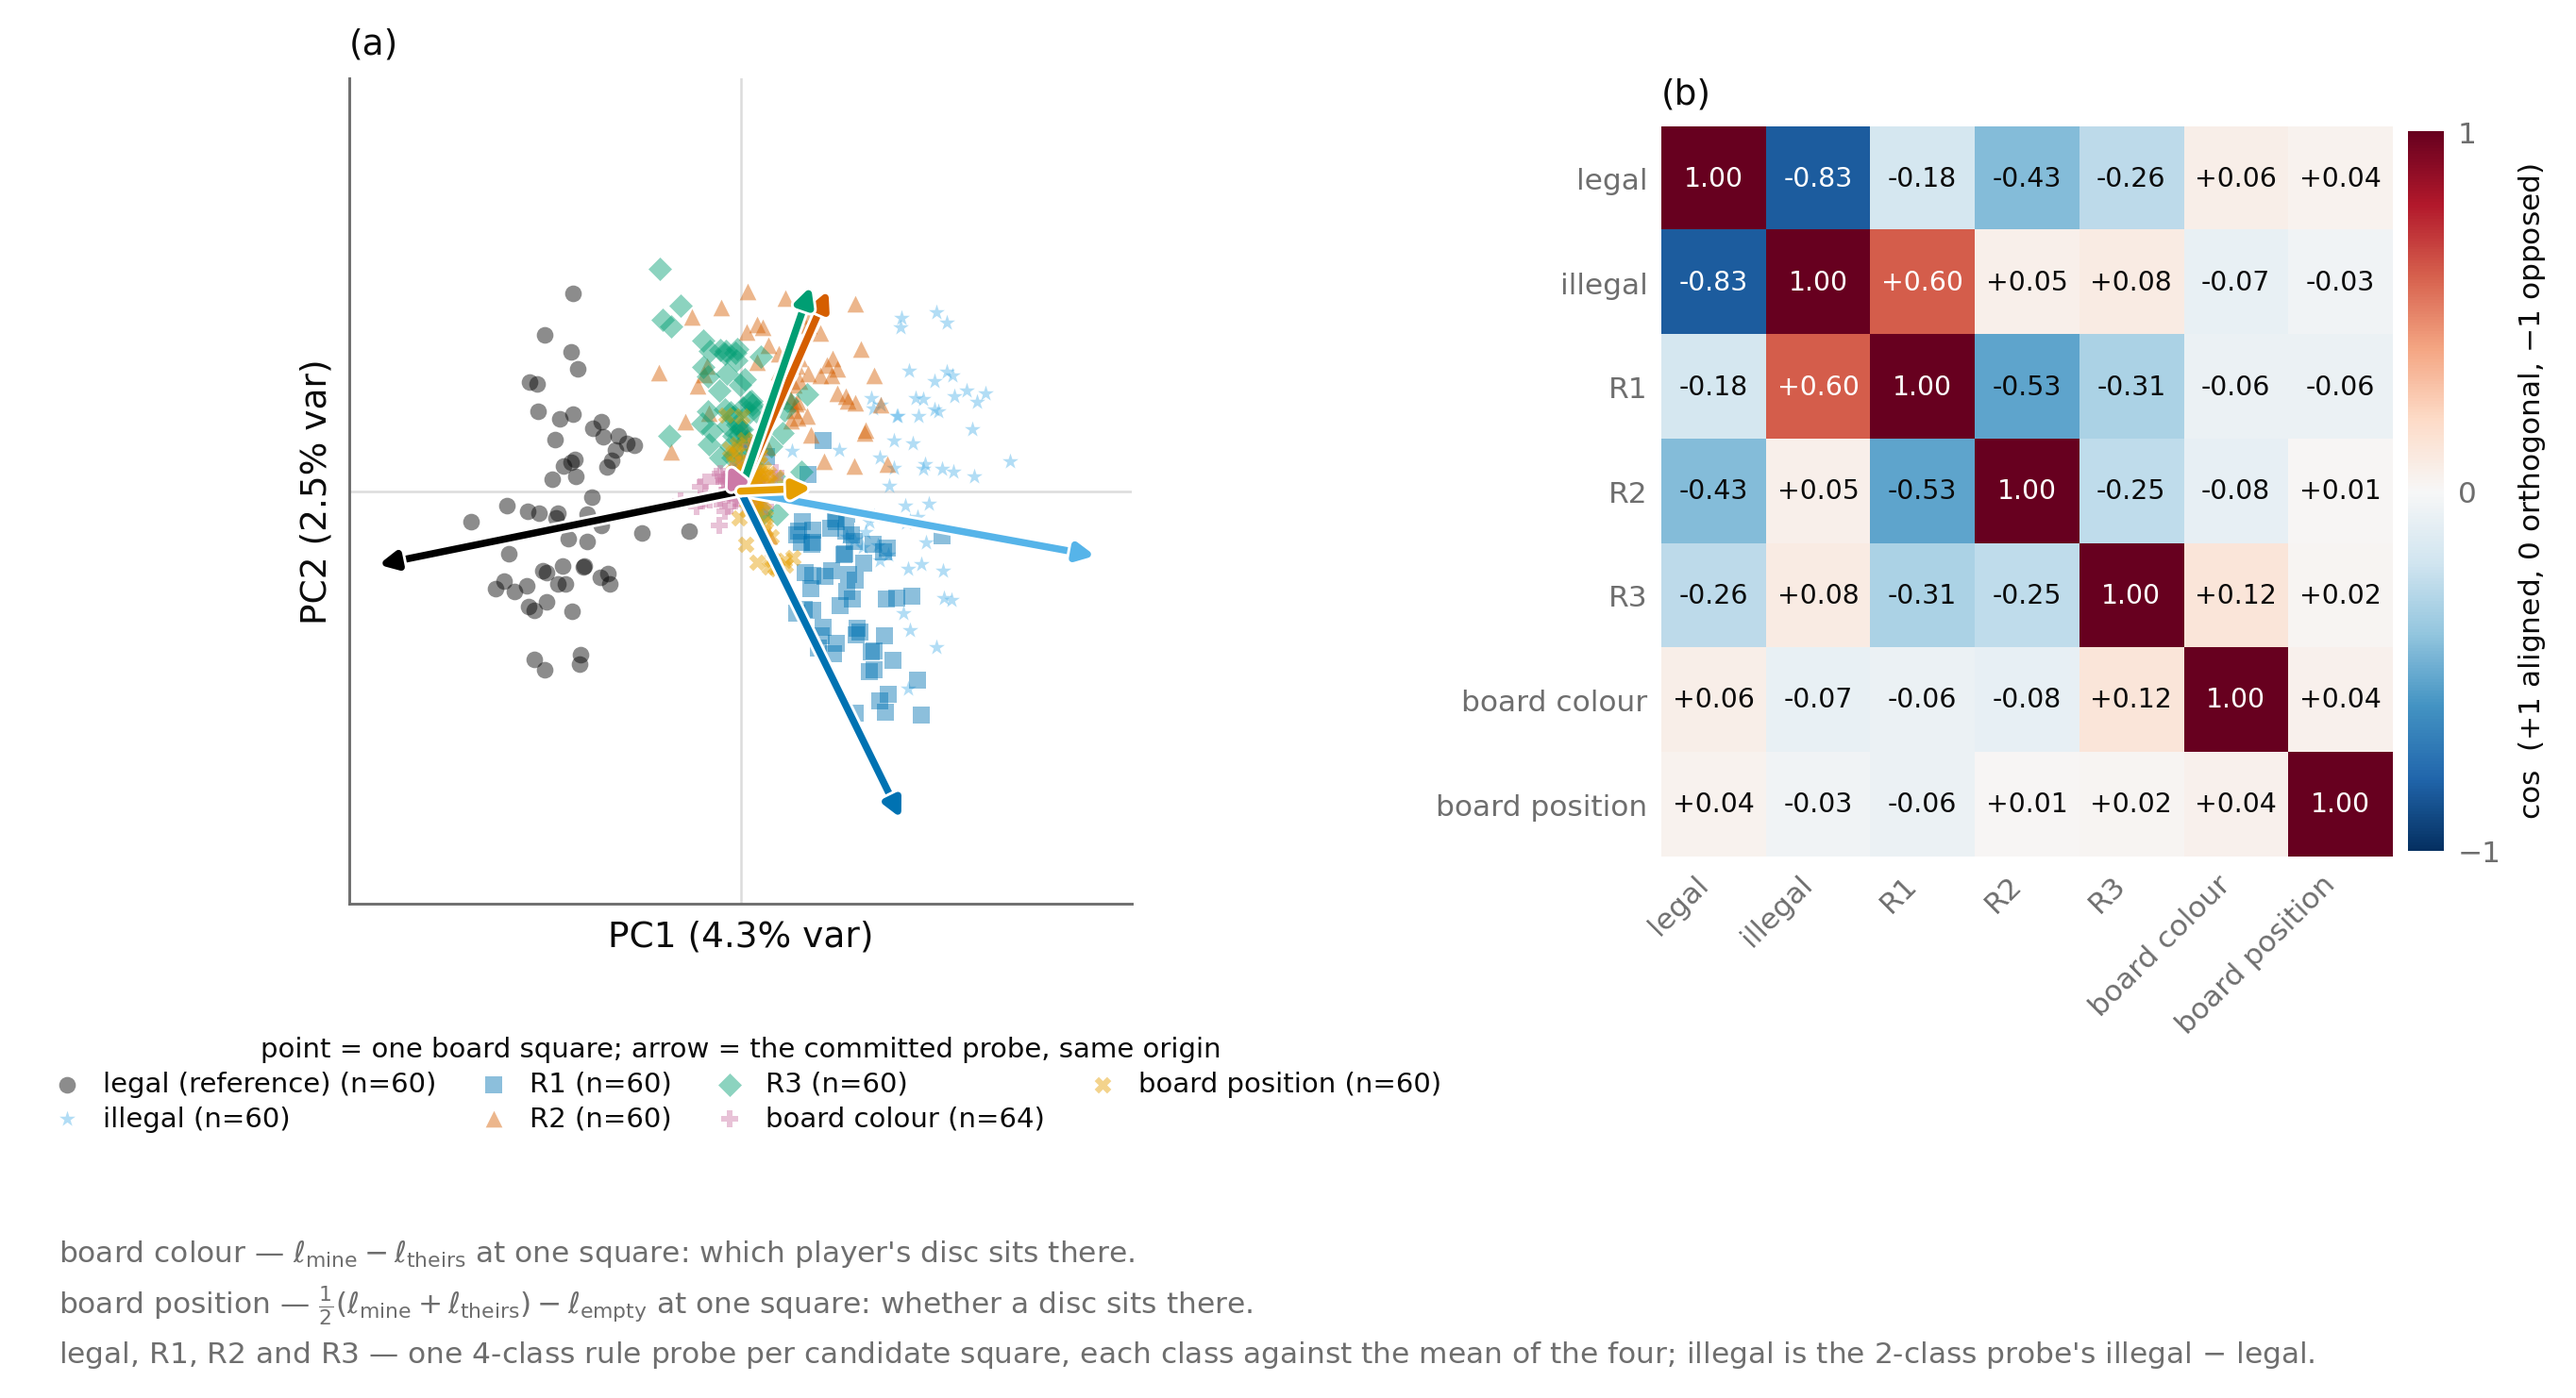
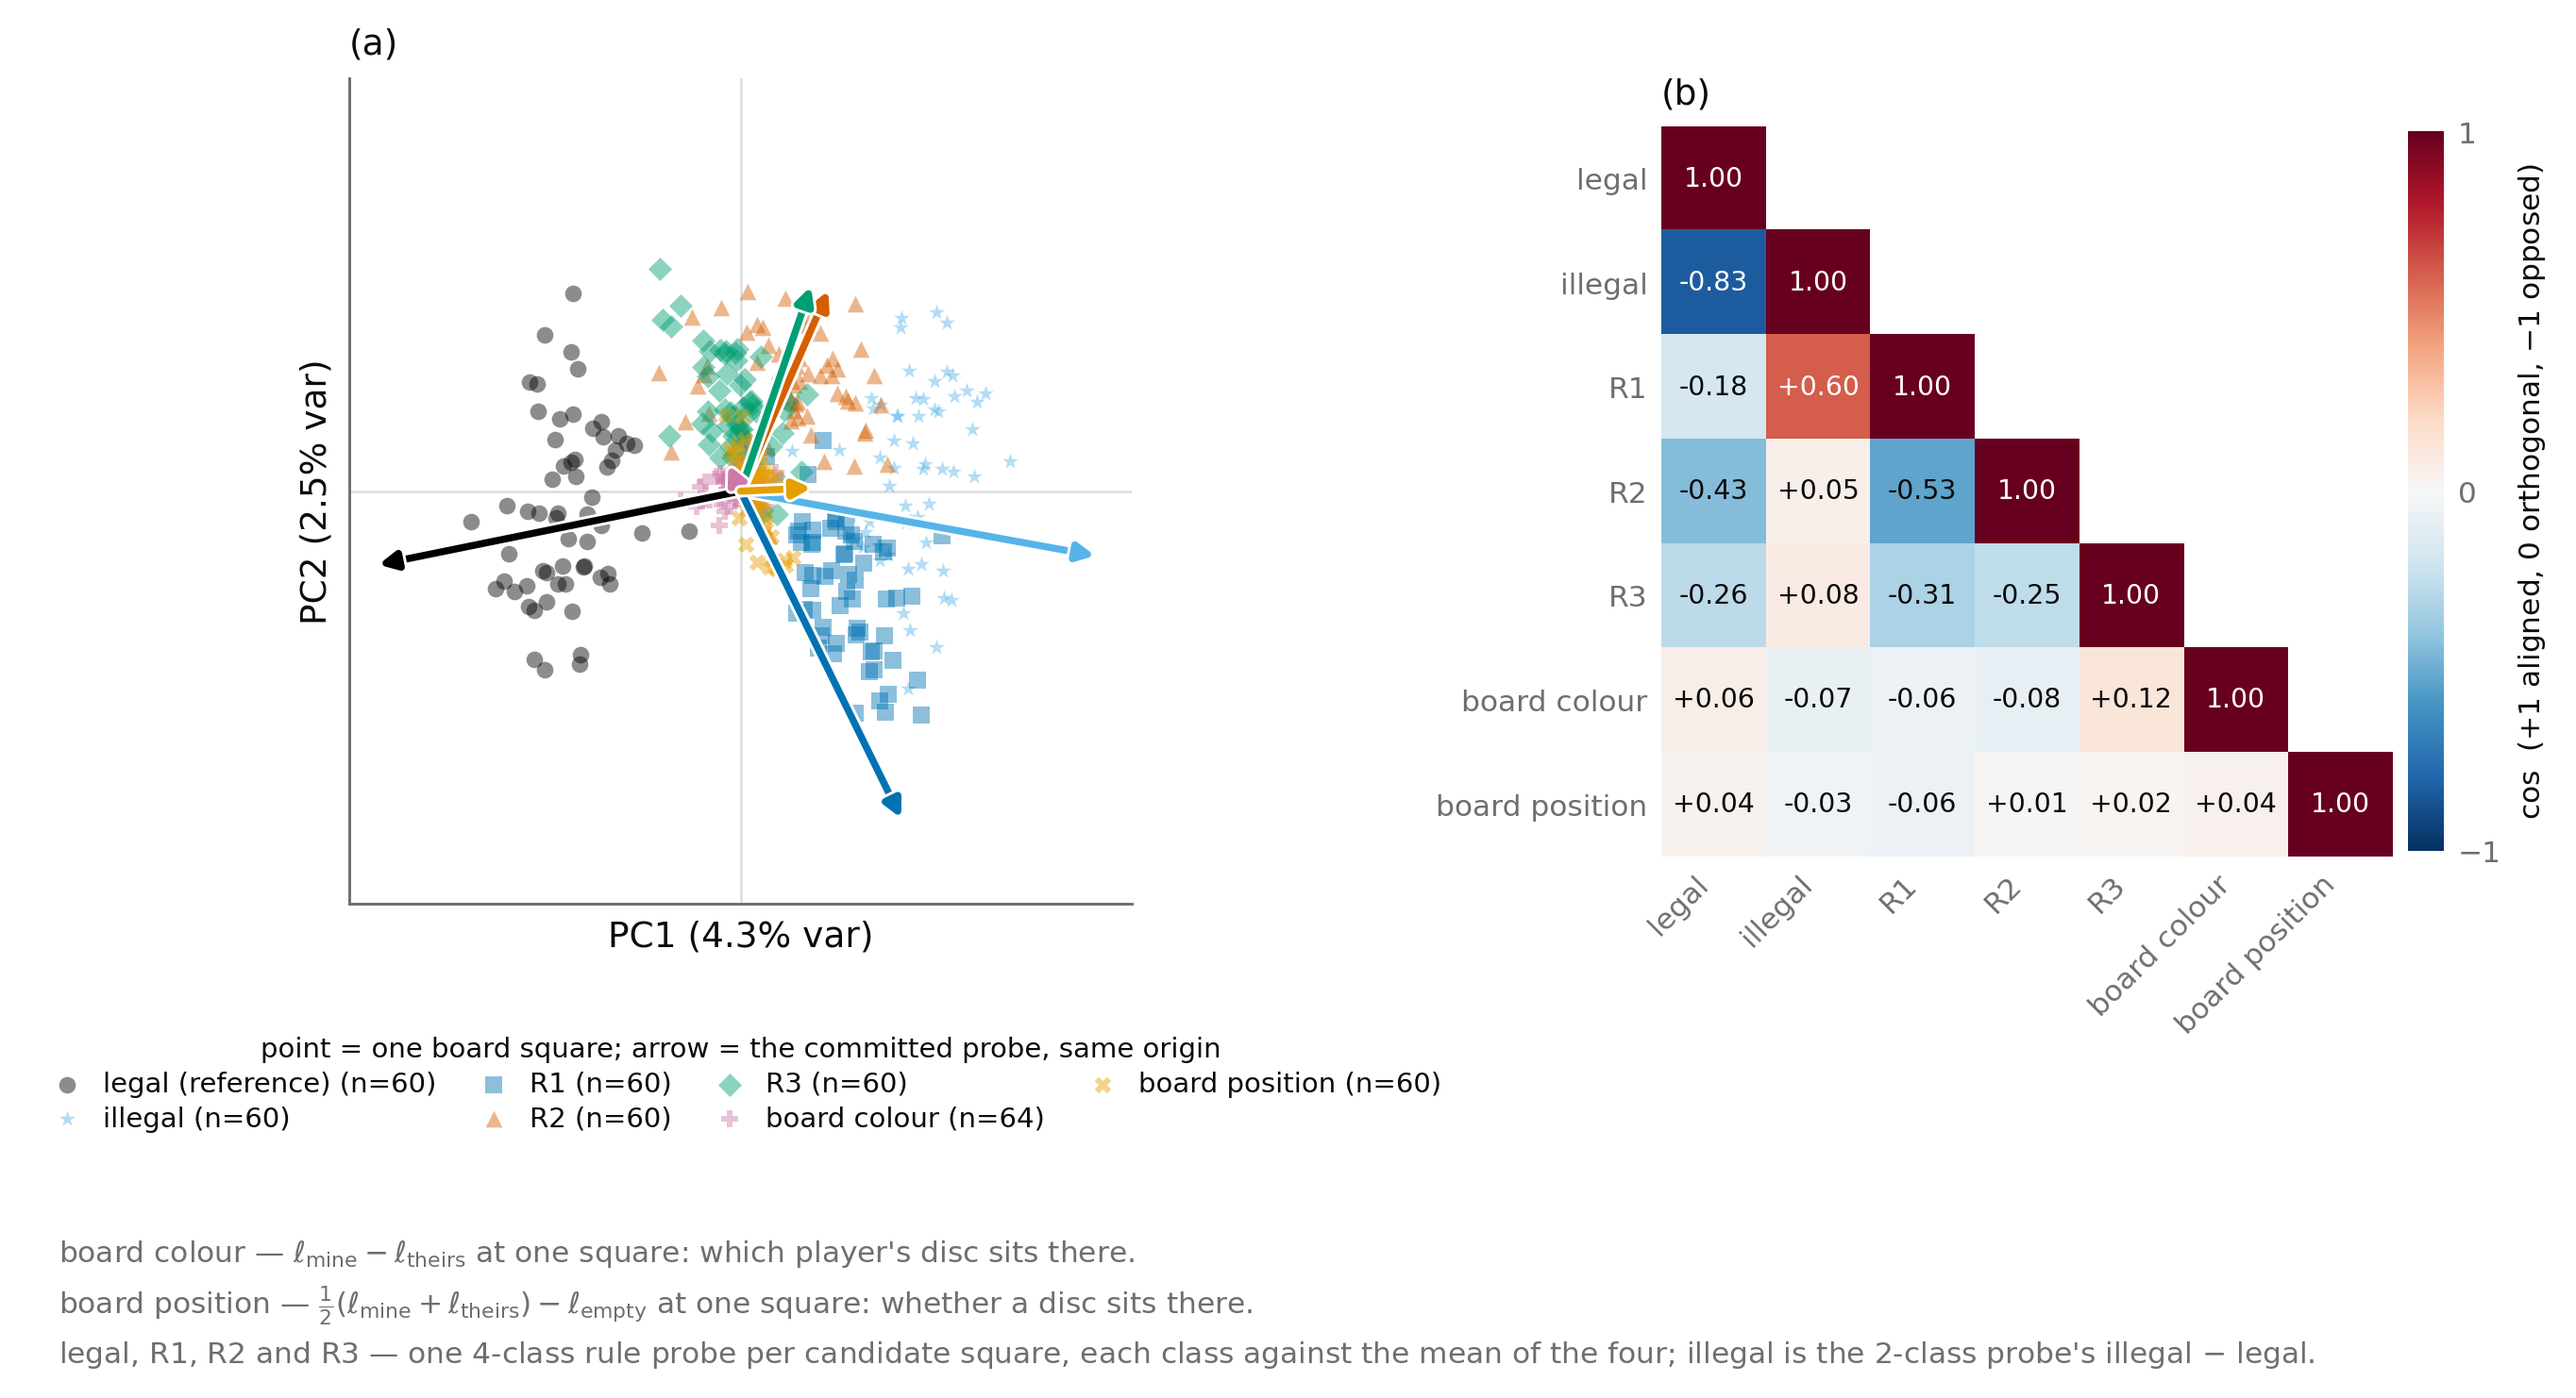
fig 1: drop the mirrored half of the cosine matrix
cos is symmetric, so the upper triangle repeated the lower one's numbers.
FIGURE_GUIDELINES 4.10 already required one triangle.

Changed region(s): [[0.6852, 0.0931, 0.9344, 0.4656], [0.9033, 0.1862, 0.9344, 0.2173]]

diff --git a/analysis/probe_geometry/make_figures.py b/analysis/probe_geometry/make_figures.py
@@ -60,11 +60,17 @@ def pca_panel(ax, points: pd.DataFrame, arrows: pd.DataFrame, ratio: pd.DataFram
 
 
 def cosine_panel(fig, ax, gram: pd.DataFrame) -> None:
+    """Lower triangle only: cos is symmetric, so the other half is the same numbers."""
     labels = [DIRECTION_STYLE[f]["label"].replace(" (reference)", "") for f in gram.index]
-    im = ax.imshow(gram.to_numpy(), cmap=DIVERGING, vmin=-1, vmax=1)
+    shown = gram.to_numpy().astype(float)
+    shown[np.triu_indices_from(shown, k=1)] = np.nan
+    cmap = plt.get_cmap(DIVERGING).copy()
+    cmap.set_bad("white")
+
+    im = ax.imshow(shown, cmap=cmap, vmin=-1, vmax=1)
     for i in range(len(gram)):
-        for j in range(len(gram)):
-            v = gram.iat[i, j]
+        for j in range(i + 1):
+            v = shown[i, j]
             ax.text(j, i, f"{v:+.2f}".replace("+1.00", "1.00"), ha="center", va="center",
                     fontsize=6.8, color="white" if abs(v) > 0.55 else INK)
     ax.set_xticks(range(len(gram)), labels, rotation=45, ha="right", fontsize=7.5)
